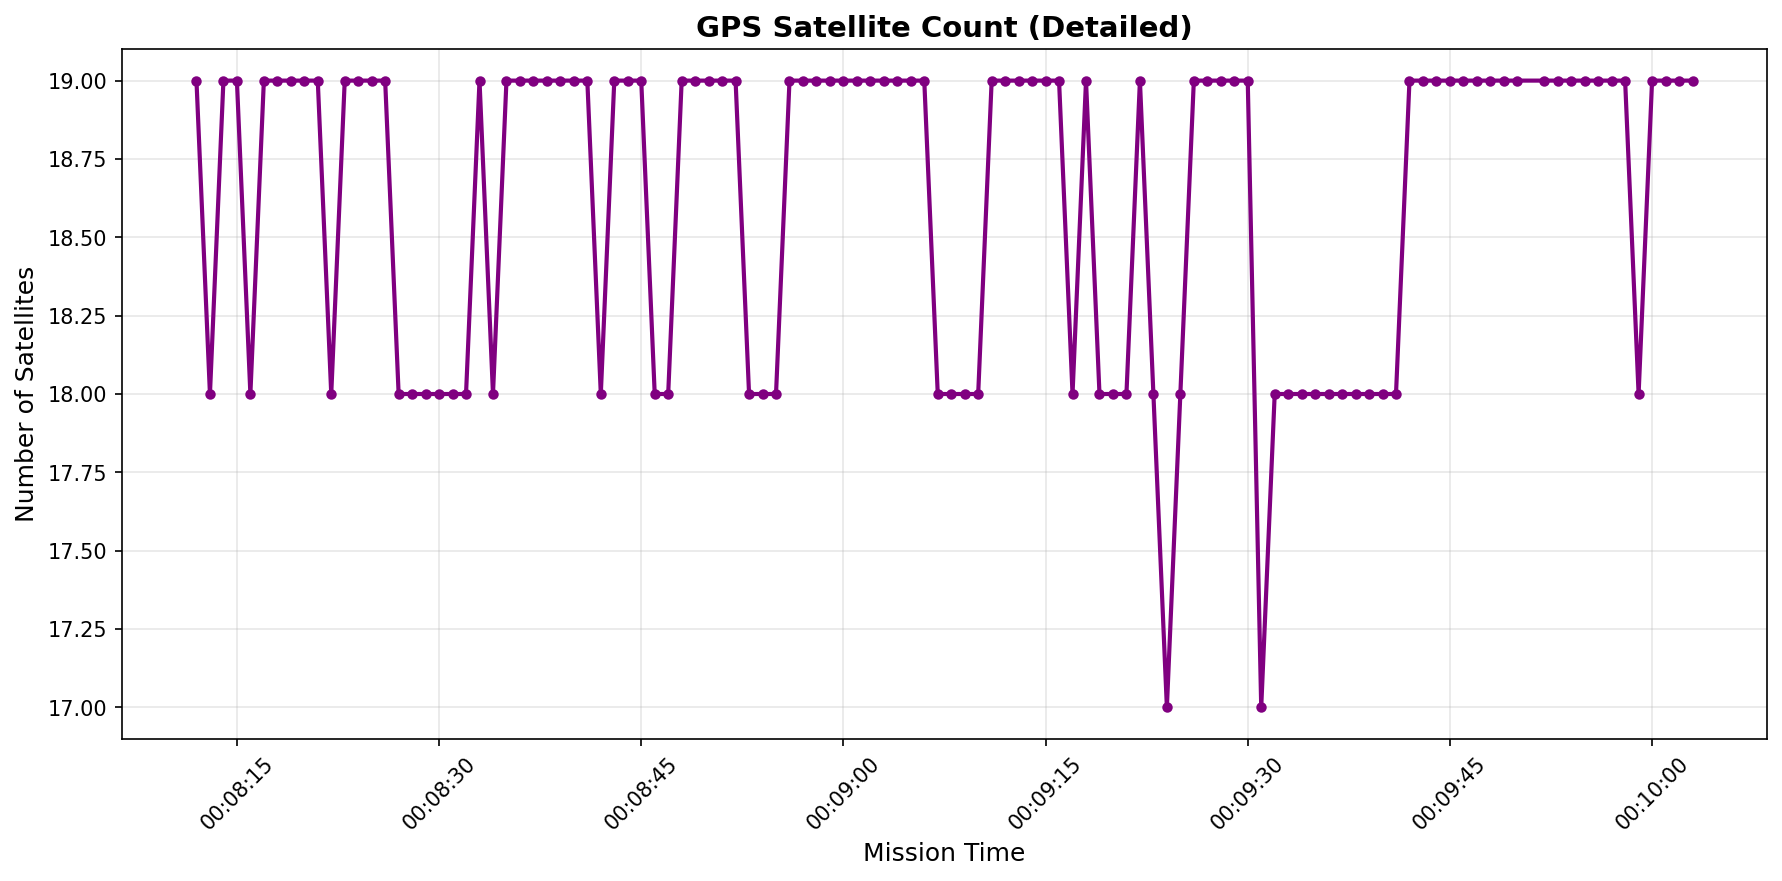
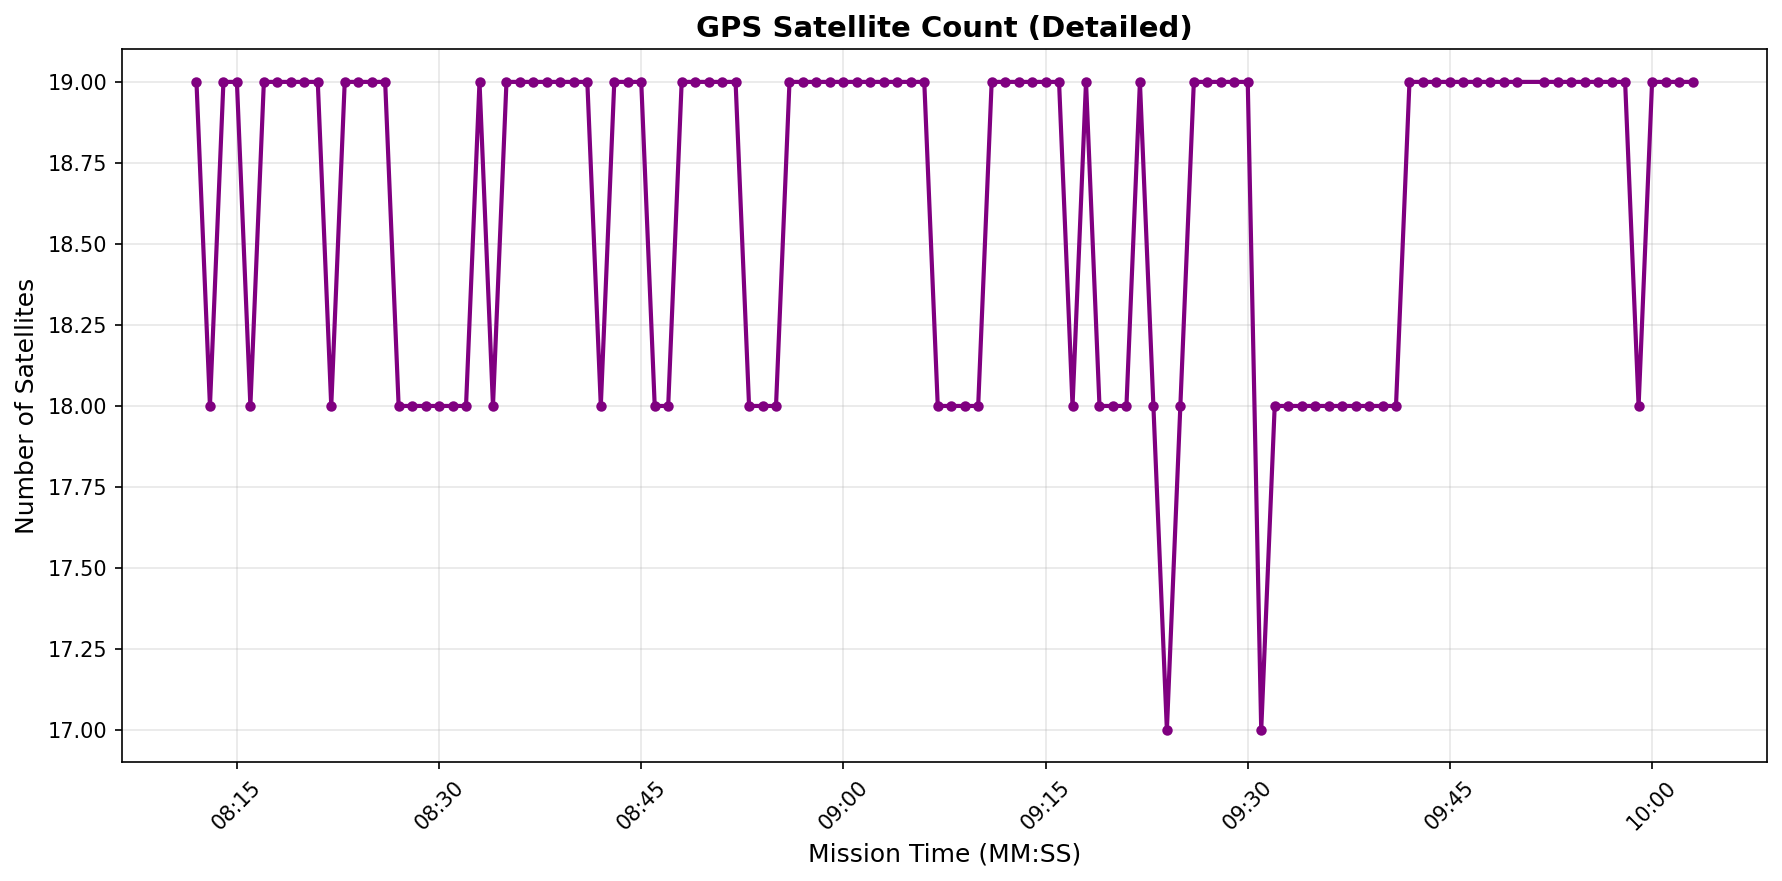
plots with gps

diff --git a/Ground-Station/plot-csv.py b/Ground-Station/plot-csv.py
@@ -6,7 +6,6 @@ from pathlib import Path
 
 # Configuration
 CSV_FILE = "Flight_1083_telemetry_2026-04-10_09-03-54.csv"  # Update with your CSV filename
-# CSV_FILE = "Flight_1083_telemetry_2026-04-04_11-15-24.csv"
 OUTPUT_DIR = "plots"
 
 # Create output directory if it doesn't exist
@@ -42,34 +41,34 @@ try:
     # Keep MISSION_TIME as string for x-axis (more reliable for plotting)
     df['MISSION_TIME'] = df['MISSION_TIME'].astype(str)
     
-    # Convert MISSION_TIME to datetime for better x-axis formatting
+    # Convert MISSION_TIME to datetime for better x-axis formatting (Keep %H:%M:%S here so it reads correctly)
     df['MISSION_TIME_DT'] = pd.to_datetime(df['MISSION_TIME'], format='%H:%M:%S', errors='coerce')
     
     # Check for data before and after cleaning
     print(f"Rows before cleaning: {len(df)}")
-    print(f"Sample data:\n{df.head()}")
     
     # Drop rows with NaN values in numeric columns only
     df = df.dropna(subset=['ALTITUDE'])
     print(f"After cleaning: {len(df)} rows with valid data")
-    print(f"Data types:\n{df.dtypes}")
-    print(f"\nData summary:\n{df[['MISSION_TIME', 'ALTITUDE', 'ACCEL_R', 'VOLTAGE', 'CURRENT']].head(10)}")
     
 except FileNotFoundError:
     print(f"Error: Could not find {CSV_FILE}")
     exit(1)
 
-# Create figure with multiple subplots
-fig, axes = plt.subplots(4, 2, figsize=(15, 16))
+# ==========================================
+# MAIN DASHBOARD PLOT
+# ==========================================
+# Create figure with 5x2 subplots to fit all charts
+fig, axes = plt.subplots(5, 2, figsize=(15, 20))
 fig.suptitle(f'CanSat Telemetry Data - {CSV_FILE}', fontsize=16, fontweight='bold')
 
 # 1. Altitude vs Mission Time
 axes[0, 0].plot(df['MISSION_TIME_DT'], df['ALTITUDE'], marker='o', linestyle='-', linewidth=1, markersize=3, color='blue')
 axes[0, 0].set_title('Altitude vs Mission Time')
-axes[0, 0].set_xlabel('Mission Time')
+axes[0, 0].set_xlabel('Mission Time (MM:SS)')
 axes[0, 0].set_ylabel('Altitude (m)')
 axes[0, 0].xaxis.set_major_locator(mdates.AutoDateLocator())
-axes[0, 0].xaxis.set_major_formatter(mdates.DateFormatter('%H:%M:%S'))
+axes[0, 0].xaxis.set_major_formatter(mdates.DateFormatter('%M:%S')) # Changed format
 axes[0, 0].tick_params(axis='x', rotation=45)
 axes[0, 0].grid(True, alpha=0.3)
 
@@ -78,10 +77,10 @@ axes[0, 1].plot(df['MISSION_TIME_DT'], df['ACCEL_R'], label='ACCEL_R', marker='o
 axes[0, 1].plot(df['MISSION_TIME_DT'], df['ACCEL_P'], label='ACCEL_P', marker='s', linestyle='-', linewidth=1, markersize=2)
 axes[0, 1].plot(df['MISSION_TIME_DT'], df['ACCEL_Y'], label='ACCEL_Y', marker='^', linestyle='-', linewidth=1, markersize=2)
 axes[0, 1].set_title('Acceleration (°/s²)')
-axes[0, 1].set_xlabel('Mission Time')
+axes[0, 1].set_xlabel('Mission Time (MM:SS)')
 axes[0, 1].set_ylabel('Acceleration (°/s²)')
 axes[0, 1].xaxis.set_major_locator(mdates.AutoDateLocator())
-axes[0, 1].xaxis.set_major_formatter(mdates.DateFormatter('%H:%M:%S'))
+axes[0, 1].xaxis.set_major_formatter(mdates.DateFormatter('%M:%S')) # Changed format
 axes[0, 1].tick_params(axis='x', rotation=45)
 axes[0, 1].legend(loc='best')
 axes[0, 1].grid(True, alpha=0.3)
@@ -91,10 +90,10 @@ axes[1, 0].plot(df['MISSION_TIME_DT'], df['GYRO_R'], label='GYRO_R', marker='o',
 axes[1, 0].plot(df['MISSION_TIME_DT'], df['GYRO_P'], label='GYRO_P', marker='s', linestyle='-', linewidth=1, markersize=2)
 axes[1, 0].plot(df['MISSION_TIME_DT'], df['GYRO_Y'], label='GYRO_Y', marker='^', linestyle='-', linewidth=1, markersize=2)
 axes[1, 0].set_title('Rotation Rate (°/s)')
-axes[1, 0].set_xlabel('Mission Time')
+axes[1, 0].set_xlabel('Mission Time (MM:SS)')
 axes[1, 0].set_ylabel('Rotation Rate (°/s)')
 axes[1, 0].xaxis.set_major_locator(mdates.AutoDateLocator())
-axes[1, 0].xaxis.set_major_formatter(mdates.DateFormatter('%H:%M:%S'))
+axes[1, 0].xaxis.set_major_formatter(mdates.DateFormatter('%M:%S')) # Changed format
 axes[1, 0].tick_params(axis='x', rotation=45)
 axes[1, 0].legend(loc='best')
 axes[1, 0].grid(True, alpha=0.3)
@@ -107,22 +106,21 @@ line1 = ax_current.plot(df['MISSION_TIME_DT'], df['CURRENT'], marker='o', linest
 line2 = ax_voltage.plot(df['MISSION_TIME_DT'], df['VOLTAGE'], marker='s', linestyle='-', linewidth=2, markersize=3, color='red', label='Voltage')
 
 ax_current.set_title('Current and Voltage vs Mission Time')
-ax_current.set_xlabel('Mission Time')
+ax_current.set_xlabel('Mission Time (MM:SS)')
 ax_current.set_ylabel('Current (A)', color='green')
 ax_voltage.set_ylabel('Voltage (V)', color='red')
 ax_current.tick_params(axis='y', labelcolor='green')
 ax_voltage.tick_params(axis='y', labelcolor='red')
 ax_current.xaxis.set_major_locator(mdates.AutoDateLocator())
-ax_current.xaxis.set_major_formatter(mdates.DateFormatter('%H:%M:%S'))
+ax_current.xaxis.set_major_formatter(mdates.DateFormatter('%M:%S')) # Changed format
 ax_current.tick_params(axis='x', rotation=45)
 ax_current.grid(True, alpha=0.3)
 
-# Combine legends
 lines = line1 + line2
 labels = [l.get_label() for l in lines]
 ax_current.legend(lines, labels, loc='best')
 
-# 5. Temperature and Pressure (moved to position [2, 0])
+# 5. Temperature and Pressure
 axes[2, 0].clear()
 ax_temp = axes[2, 0]
 ax_press = ax_temp.twinx()
@@ -131,54 +129,80 @@ line1 = ax_temp.plot(df['MISSION_TIME_DT'], df['TEMPERATURE'], marker='o', lines
 line2 = ax_press.plot(df['MISSION_TIME_DT'], df['PRESSURE'], marker='s', linestyle='-', linewidth=1, markersize=2, color='purple', label='Pressure')
 
 ax_temp.set_title('Temperature and Pressure vs Mission Time')
-ax_temp.set_xlabel('Mission Time')
+ax_temp.set_xlabel('Mission Time (MM:SS)')
 ax_temp.set_ylabel('Temperature (°C)', color='orange')
 ax_press.set_ylabel('Pressure (hPa)', color='purple')
 ax_temp.tick_params(axis='y', labelcolor='orange')
 ax_temp.xaxis.set_major_locator(mdates.AutoDateLocator())
-ax_temp.xaxis.set_major_formatter(mdates.DateFormatter('%H:%M:%S'))
+ax_temp.xaxis.set_major_formatter(mdates.DateFormatter('%M:%S')) # Changed format
 ax_temp.tick_params(axis='x', rotation=45)
 ax_press.tick_params(axis='y', labelcolor='purple')
 ax_temp.grid(True, alpha=0.3)
 
-# Combine legends
 lines = line1 + line2
 labels = [l.get_label() for l in lines]
 ax_temp.legend(lines, labels, loc='best')
 
+# Hide unused subplot at [2, 1]
+axes[2, 1].axis('off')
+
 # 6. GPS Altitude vs Mission Time
 axes[3, 0].plot(df['MISSION_TIME_DT'], df['GPS_ALTITUDE'], marker='o', linestyle='-', linewidth=1, markersize=3, color='darkgreen')
 axes[3, 0].set_title('GPS Altitude vs Mission Time')
-axes[3, 0].set_xlabel('Mission Time')
+axes[3, 0].set_xlabel('Mission Time (MM:SS)')
 axes[3, 0].set_ylabel('GPS Altitude (m)')
 axes[3, 0].xaxis.set_major_locator(mdates.AutoDateLocator())
-axes[3, 0].xaxis.set_major_formatter(mdates.DateFormatter('%H:%M:%S'))
+axes[3, 0].xaxis.set_major_formatter(mdates.DateFormatter('%M:%S')) # Changed format
 axes[3, 0].tick_params(axis='x', rotation=45)
 axes[3, 0].grid(True, alpha=0.3)
 
 # 7. GPS Satellites vs Mission Time
 axes[3, 1].plot(df['MISSION_TIME_DT'], df['GPS_SATS'], marker='o', linestyle='-', linewidth=1, markersize=3, color='purple')
 axes[3, 1].set_title('GPS Satellites vs Mission Time')
-axes[3, 1].set_xlabel('Mission Time')
+axes[3, 1].set_xlabel('Mission Time (MM:SS)')
 axes[3, 1].set_ylabel('Number of Satellites')
 axes[3, 1].xaxis.set_major_locator(mdates.AutoDateLocator())
-axes[3, 1].xaxis.set_major_formatter(mdates.DateFormatter('%H:%M:%S'))
+axes[3, 1].xaxis.set_major_formatter(mdates.DateFormatter('%M:%S')) # Changed format
 axes[3, 1].tick_params(axis='x', rotation=45)
 axes[3, 1].grid(True, alpha=0.3)
+
+# 8. GPS Latitude vs Mission Time
+axes[4, 0].plot(df['MISSION_TIME_DT'], df['GPS_LATITUDE'], marker='o', linestyle='-', linewidth=1, markersize=3, color='darkred')
+axes[4, 0].set_title('GPS Latitude vs Mission Time')
+axes[4, 0].set_xlabel('Mission Time (MM:SS)')
+axes[4, 0].set_ylabel('GPS Latitude (°)')
+axes[4, 0].xaxis.set_major_locator(mdates.AutoDateLocator())
+axes[4, 0].xaxis.set_major_formatter(mdates.DateFormatter('%M:%S')) # Changed format
+axes[4, 0].tick_params(axis='x', rotation=45)
+axes[4, 0].grid(True, alpha=0.3)
+
+# 9. GPS Longitude vs Mission Time
+axes[4, 1].plot(df['MISSION_TIME_DT'], df['GPS_LONGITUDE'], marker='o', linestyle='-', linewidth=1, markersize=3, color='darkblue')
+axes[4, 1].set_title('GPS Longitude vs Mission Time')
+axes[4, 1].set_xlabel('Mission Time (MM:SS)')
+axes[4, 1].set_ylabel('GPS Longitude (°)')
+axes[4, 1].xaxis.set_major_locator(mdates.AutoDateLocator())
+axes[4, 1].xaxis.set_major_formatter(mdates.DateFormatter('%M:%S')) # Changed format
+axes[4, 1].tick_params(axis='x', rotation=45)
+axes[4, 1].grid(True, alpha=0.3)
 
 plt.tight_layout()
 plt.savefig(os.path.join(OUTPUT_DIR, 'telemetry_overview.png'), dpi=150, bbox_inches='tight')
 print(f"Saved: {os.path.join(OUTPUT_DIR, 'telemetry_overview.png')}")
 # plt.close(fig)
 
-# Create individual high-detail plots
+# ==========================================
+# INDIVIDUAL HIGH-DETAIL PLOTS
+# ==========================================
+
+# Altitude Detailed
 fig2, ax = plt.subplots(figsize=(12, 6))
 ax.plot(df['MISSION_TIME_DT'], df['ALTITUDE'], marker='o', linestyle='-', linewidth=2, markersize=4, color='blue')
 ax.set_title('Altitude Profile (Detailed)', fontsize=14, fontweight='bold')
-ax.set_xlabel('Mission Time', fontsize=12)
+ax.set_xlabel('Mission Time (MM:SS)', fontsize=12)
 ax.set_ylabel('Altitude (m)', fontsize=12)
 ax.xaxis.set_major_locator(mdates.AutoDateLocator())
-ax.xaxis.set_major_formatter(mdates.DateFormatter('%H:%M:%S'))
+ax.xaxis.set_major_formatter(mdates.DateFormatter('%M:%S')) # Changed format
 ax.tick_params(axis='x', rotation=45)
 ax.grid(True, alpha=0.3)
 plt.tight_layout()
@@ -186,16 +210,16 @@ plt.savefig(os.path.join(OUTPUT_DIR, 'altitude_detailed.png'), dpi=150, bbox_inc
 print(f"Saved: {os.path.join(OUTPUT_DIR, 'altitude_detailed.png')}")
 plt.close(fig2)
 
-# Create acceleration detailed plot
+# Acceleration Detailed
 fig3, ax = plt.subplots(figsize=(12, 6))
 ax.plot(df['MISSION_TIME_DT'], df['ACCEL_R'], label='ACCEL_R (Roll)', linewidth=2, marker='o', markersize=3)
 ax.plot(df['MISSION_TIME_DT'], df['ACCEL_P'], label='ACCEL_P (Pitch)', linewidth=2, marker='s', markersize=3)
 ax.plot(df['MISSION_TIME_DT'], df['ACCEL_Y'], label='ACCEL_Y (Yaw)', linewidth=2, marker='^', markersize=3)
 ax.set_title('Acceleration Data (Detailed)', fontsize=14, fontweight='bold')
-ax.set_xlabel('Mission Time', fontsize=12)
+ax.set_xlabel('Mission Time (MM:SS)', fontsize=12)
 ax.set_ylabel('Acceleration (°/s²)', fontsize=12)
 ax.xaxis.set_major_locator(mdates.AutoDateLocator())
-ax.xaxis.set_major_formatter(mdates.DateFormatter('%H:%M:%S'))
+ax.xaxis.set_major_formatter(mdates.DateFormatter('%M:%S')) # Changed format
 ax.tick_params(axis='x', rotation=45)
 ax.legend(loc='best', fontsize=10)
 ax.grid(True, alpha=0.3)
@@ -204,16 +228,16 @@ plt.savefig(os.path.join(OUTPUT_DIR, 'acceleration_detailed.png'), dpi=150, bbox
 print(f"Saved: {os.path.join(OUTPUT_DIR, 'acceleration_detailed.png')}")
 plt.close(fig3)
 
-# Create rotation rate detailed plot
+# Rotation Rate Detailed
 fig4, ax = plt.subplots(figsize=(12, 6))
 ax.plot(df['MISSION_TIME_DT'], df['GYRO_R'], label='GYRO_R (Roll)', linewidth=2, marker='o', markersize=3)
 ax.plot(df['MISSION_TIME_DT'], df['GYRO_P'], label='GYRO_P (Pitch)', linewidth=2, marker='s', markersize=3)
 ax.plot(df['MISSION_TIME_DT'], df['GYRO_Y'], label='GYRO_Y (Yaw)', linewidth=2, marker='^', markersize=3)
 ax.set_title('Rotation Rate Data (Detailed)', fontsize=14, fontweight='bold')
-ax.set_xlabel('Mission Time', fontsize=12)
+ax.set_xlabel('Mission Time (MM:SS)', fontsize=12)
 ax.set_ylabel('Rotation Rate (°/s)', fontsize=12)
 ax.xaxis.set_major_locator(mdates.AutoDateLocator())
-ax.xaxis.set_major_formatter(mdates.DateFormatter('%H:%M:%S'))
+ax.xaxis.set_major_formatter(mdates.DateFormatter('%M:%S')) # Changed format
 ax.tick_params(axis='x', rotation=45)
 ax.legend(loc='best', fontsize=10)
 ax.grid(True, alpha=0.3)
@@ -222,72 +246,62 @@ plt.savefig(os.path.join(OUTPUT_DIR, 'rotation_rate_detailed.png'), dpi=150, bbo
 print(f"Saved: {os.path.join(OUTPUT_DIR, 'rotation_rate_detailed.png')}")
 plt.close(fig4)
 
-# Create power profile plot
+# Power Profile
 fig5, ax = plt.subplots(figsize=(12, 6))
 ax_current = ax
 ax_voltage = ax.twinx()
-
 line1 = ax_current.plot(df['MISSION_TIME_DT'], df['CURRENT'], marker='o', linestyle='-', linewidth=2, markersize=3, color='green', label='Current (A)')
 line2 = ax_voltage.plot(df['MISSION_TIME_DT'], df['VOLTAGE'], marker='s', linestyle='-', linewidth=2, markersize=3, color='red', label='Voltage (V)')
-
 ax_current.set_title('Power System Data (Voltage & Current)', fontsize=14, fontweight='bold')
-ax_current.set_xlabel('Mission Time', fontsize=12)
+ax_current.set_xlabel('Mission Time (MM:SS)', fontsize=12)
 ax_current.set_ylabel('Current (A)', fontsize=12, color='green')
 ax_voltage.set_ylabel('Voltage (V)', fontsize=12, color='red')
 ax_current.tick_params(axis='y', labelcolor='green')
 ax_voltage.tick_params(axis='y', labelcolor='red')
 ax_current.xaxis.set_major_locator(mdates.AutoDateLocator())
-ax_current.xaxis.set_major_formatter(mdates.DateFormatter('%H:%M:%S'))
+ax_current.xaxis.set_major_formatter(mdates.DateFormatter('%M:%S')) # Changed format
 ax_current.tick_params(axis='x', rotation=45)
 ax_current.grid(True, alpha=0.3)
-
-# Combine legends
 lines = line1 + line2
 labels = [l.get_label() for l in lines]
 ax_current.legend(lines, labels, loc='best', fontsize=10)
-
 plt.tight_layout()
 plt.savefig(os.path.join(OUTPUT_DIR, 'power_profile.png'), dpi=150, bbox_inches='tight')
 print(f"Saved: {os.path.join(OUTPUT_DIR, 'power_profile.png')}")
 plt.close(fig5)
 
-# Create temperature and pressure detailed plot
+# Temperature and Pressure Detailed
 fig6, ax = plt.subplots(figsize=(12, 6))
 ax_temp = ax
 ax_press = ax_temp.twinx()
-
 line1 = ax_temp.plot(df['MISSION_TIME_DT'], df['TEMPERATURE'], marker='o', linestyle='-', linewidth=2, markersize=3, color='orange', label='Temperature (°C)')
 line2 = ax_press.plot(df['MISSION_TIME_DT'], df['PRESSURE'], marker='s', linestyle='-', linewidth=2, markersize=3, color='purple', label='Pressure (hPa)')
-
 ax_temp.set_title('Temperature and Pressure Data (Detailed)', fontsize=14, fontweight='bold')
-ax_temp.set_xlabel('Mission Time', fontsize=12)
+ax_temp.set_xlabel('Mission Time (MM:SS)', fontsize=12)
 ax_temp.set_ylabel('Temperature (°C)', fontsize=12, color='orange')
 ax_press.set_ylabel('Pressure (hPa)', fontsize=12, color='purple')
 ax_temp.tick_params(axis='y', labelcolor='orange')
 ax_temp.xaxis.set_major_locator(mdates.AutoDateLocator())
-ax_temp.xaxis.set_major_formatter(mdates.DateFormatter('%H:%M:%S'))
+ax_temp.xaxis.set_major_formatter(mdates.DateFormatter('%M:%S')) # Changed format
 ax_temp.tick_params(axis='x', rotation=45)
 ax_press.tick_params(axis='y', labelcolor='purple')
 ax_temp.grid(True, alpha=0.3)
-
-# Combine legends
 lines = line1 + line2
 labels = [l.get_label() for l in lines]
 ax_temp.legend(lines, labels, loc='best', fontsize=10)
-
 plt.tight_layout()
 plt.savefig(os.path.join(OUTPUT_DIR, 'temperature_pressure_detailed.png'), dpi=150, bbox_inches='tight')
 print(f"Saved: {os.path.join(OUTPUT_DIR, 'temperature_pressure_detailed.png')}")
 plt.close(fig6)
 
-# Create GPS altitude detailed plot
+# GPS Altitude Detailed
 fig7, ax = plt.subplots(figsize=(12, 6))
 ax.plot(df['MISSION_TIME_DT'], df['GPS_ALTITUDE'], marker='o', linestyle='-', linewidth=2, markersize=4, color='darkgreen')
 ax.set_title('GPS Altitude (Detailed)', fontsize=14, fontweight='bold')
-ax.set_xlabel('Mission Time', fontsize=12)
+ax.set_xlabel('Mission Time (MM:SS)', fontsize=12)
 ax.set_ylabel('GPS Altitude (m)', fontsize=12)
 ax.xaxis.set_major_locator(mdates.AutoDateLocator())
-ax.xaxis.set_major_formatter(mdates.DateFormatter('%H:%M:%S'))
+ax.xaxis.set_major_formatter(mdates.DateFormatter('%M:%S')) # Changed format
 ax.tick_params(axis='x', rotation=45)
 ax.grid(True, alpha=0.3)
 plt.tight_layout()
@@ -295,7 +309,7 @@ plt.savefig(os.path.join(OUTPUT_DIR, 'gps_altitude_detailed.png'), dpi=150, bbox
 print(f"Saved: {os.path.join(OUTPUT_DIR, 'gps_altitude_detailed.png')}")
 plt.close(fig7)
 
-# Create GPS position detailed plot (Latitude vs Longitude)
+# GPS Position Track
 fig8, ax = plt.subplots(figsize=(12, 6))
 ax.plot(df['GPS_LONGITUDE'], df['GPS_LATITUDE'], marker='o', linestyle='-', linewidth=2, markersize=4, color='teal')
 ax.set_title('GPS Position Track (Latitude vs Longitude)', fontsize=14, fontweight='bold')
@@ -307,14 +321,14 @@ plt.savefig(os.path.join(OUTPUT_DIR, 'gps_position_track.png'), dpi=150, bbox_in
 print(f"Saved: {os.path.join(OUTPUT_DIR, 'gps_position_track.png')}")
 plt.close(fig8)
 
-# Create GPS satellites detailed plot
+# GPS Satellites Detailed
 fig9, ax = plt.subplots(figsize=(12, 6))
 ax.plot(df['MISSION_TIME_DT'], df['GPS_SATS'], marker='o', linestyle='-', linewidth=2, markersize=4, color='purple')
 ax.set_title('GPS Satellite Count (Detailed)', fontsize=14, fontweight='bold')
-ax.set_xlabel('Mission Time', fontsize=12)
+ax.set_xlabel('Mission Time (MM:SS)', fontsize=12)
 ax.set_ylabel('Number of Satellites', fontsize=12)
 ax.xaxis.set_major_locator(mdates.AutoDateLocator())
-ax.xaxis.set_major_formatter(mdates.DateFormatter('%H:%M:%S'))
+ax.xaxis.set_major_formatter(mdates.DateFormatter('%M:%S')) # Changed format
 ax.tick_params(axis='x', rotation=45)
 ax.grid(True, alpha=0.3)
 plt.tight_layout()
@@ -322,7 +336,40 @@ plt.savefig(os.path.join(OUTPUT_DIR, 'gps_satellites_detailed.png'), dpi=150, bb
 print(f"Saved: {os.path.join(OUTPUT_DIR, 'gps_satellites_detailed.png')}")
 plt.close(fig9)
 
-# Print statistics
+# GPS Latitude vs Time
+fig10, ax = plt.subplots(figsize=(12, 6))
+ax.plot(df['MISSION_TIME_DT'], df['GPS_LATITUDE'], marker='o', linestyle='-', linewidth=2, markersize=4, color='darkred')
+ax.set_title('GPS Latitude vs Mission Time', fontsize=14, fontweight='bold')
+ax.set_xlabel('Mission Time (MM:SS)', fontsize=12)
+ax.set_ylabel('GPS Latitude (°)', fontsize=12)
+ax.xaxis.set_major_locator(mdates.AutoDateLocator())
+ax.xaxis.set_major_formatter(mdates.DateFormatter('%M:%S')) # Changed format
+ax.tick_params(axis='x', rotation=45)
+ax.grid(True, alpha=0.3)
+plt.tight_layout()
+plt.savefig(os.path.join(OUTPUT_DIR, 'gps_latitude_vs_time.png'), dpi=150, bbox_inches='tight')
+print(f"Saved: {os.path.join(OUTPUT_DIR, 'gps_latitude_vs_time.png')}")
+plt.close(fig10)
+
+# GPS Longitude vs Time
+fig11, ax = plt.subplots(figsize=(12, 6))
+ax.plot(df['MISSION_TIME_DT'], df['GPS_LONGITUDE'], marker='o', linestyle='-', linewidth=2, markersize=4, color='darkblue')
+ax.set_title('GPS Longitude vs Mission Time', fontsize=14, fontweight='bold')
+ax.set_xlabel('Mission Time (MM:SS)', fontsize=12)
+ax.set_ylabel('GPS Longitude (°)', fontsize=12)
+ax.xaxis.set_major_locator(mdates.AutoDateLocator())
+ax.xaxis.set_major_formatter(mdates.DateFormatter('%M:%S')) # Changed format
+ax.tick_params(axis='x', rotation=45)
+ax.grid(True, alpha=0.3)
+plt.tight_layout()
+plt.savefig(os.path.join(OUTPUT_DIR, 'gps_longitude_vs_time.png'), dpi=150, bbox_inches='tight')
+print(f"Saved: {os.path.join(OUTPUT_DIR, 'gps_longitude_vs_time.png')}")
+plt.close(fig11)
+
+
+# ==========================================
+# PRINT STATISTICS
+# ==========================================
 print("\n=== Telemetry Statistics ===")
 print(f"Altitude: {df['ALTITUDE'].min():.2f}m to {df['ALTITUDE'].max():.2f}m")
 print(f"Temperature: {df['TEMPERATURE'].min():.2f}°C to {df['TEMPERATURE'].max():.2f}°C")
